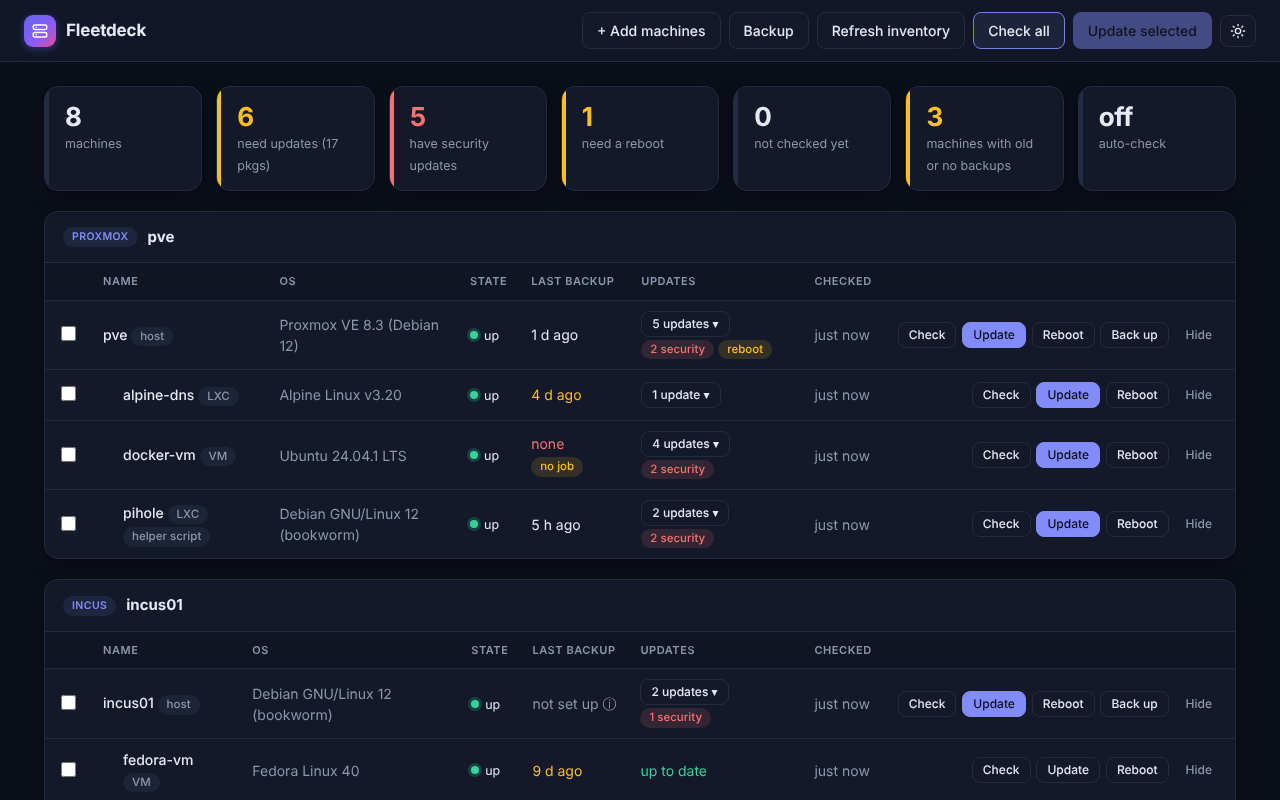
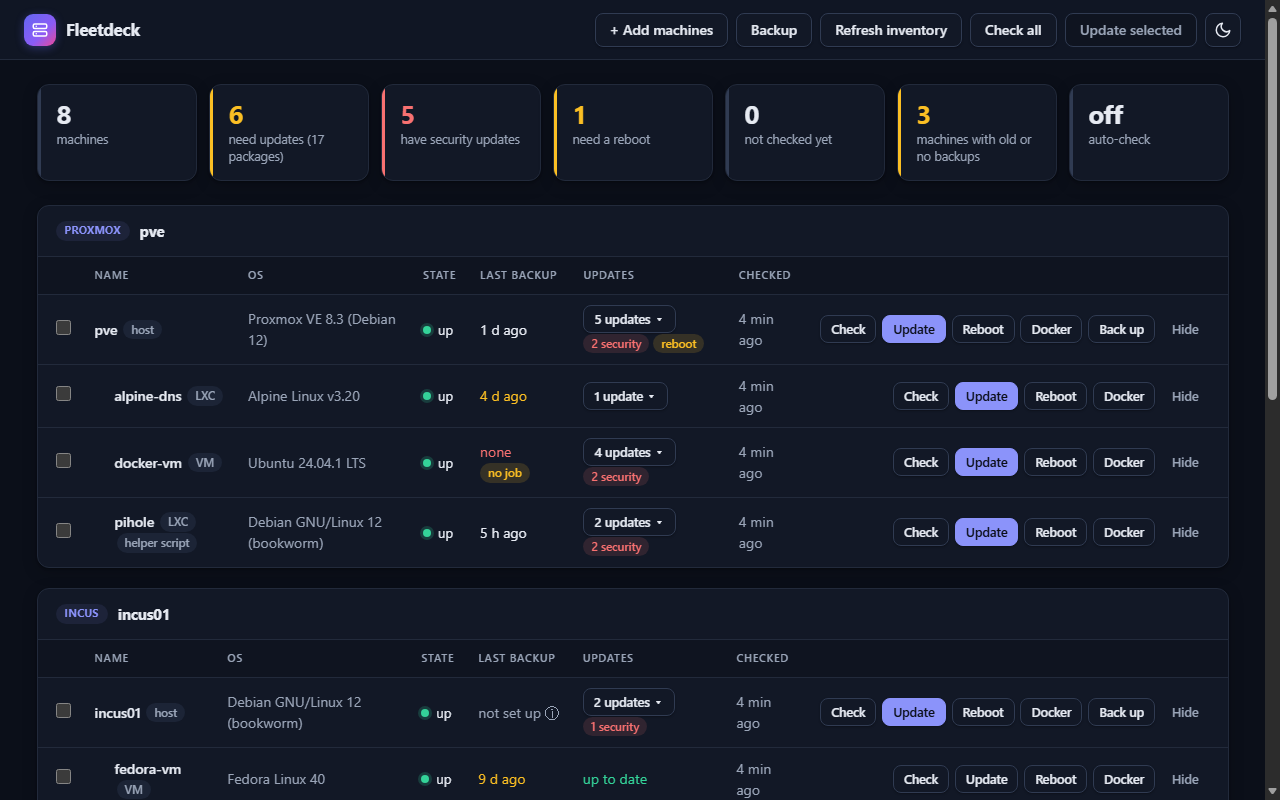
Retake screenshots after the dashboard redesign; fix the Setup button name
- Screenshots in docs/screenshots/ retaken from demo mode at the same sizes, for the
  redesigned dashboard, setup page and Activity panel (light and dark)
- The dashboard's Setup button is now "+ Add machines"; the two places that named it are updated

diff --git a/docs/DETAILED-README.md b/docs/DETAILED-README.md
@@ -201,8 +201,8 @@ Installing takes one compose file and a web page:
    each time the container starts. The log also prints a link with the code already in it
    (`http://<this machine>:8080/setup#token=...`). Enter the code and create the admin login.
    The code is only printed until the login exists. After that the log says
-   `Setup is done: open http://<this machine>:8080 and log in`, and the dashboard's Setup button
-   takes you back to the setup page.
+   `Setup is done: open http://<this machine>:8080 and log in`, and the dashboard's **+ Add machines**
+   button takes you back to the setup page.
 3. Add each machine: pick its type (Proxmox VE, Incus, or a Linux host such as a Raspberry Pi or
    a VPS), give it a name, and enter its IP address and SSH port.
 4. The page shows a short command for each machine, which downloads its script from the dashboard
@@ -249,7 +249,7 @@ machine's SSH host key fingerprints. Running it twice is harmless.
 * If the machine is the one the dashboard runs on (or its Proxmox node), it says so: put the
   dashboard's container under `protect:`, so an upgrade or reboot can't stop it mid-job.
 
-The same page (the **Setup** button on the dashboard) adds and removes machines later. Removing
+The same page (the **+ Add machines** button on the dashboard) adds and removes machines later. Removing
 one shows a script that undoes the setup on it: the `homelab` user and its sudo rule, its Proxmox
 token (and the `homelab@pve` user and role with the last one), the Incus trust, the tunnel. It also
 has an editor for `config.yaml` (schedule, notifications, `protect:`, everything in
